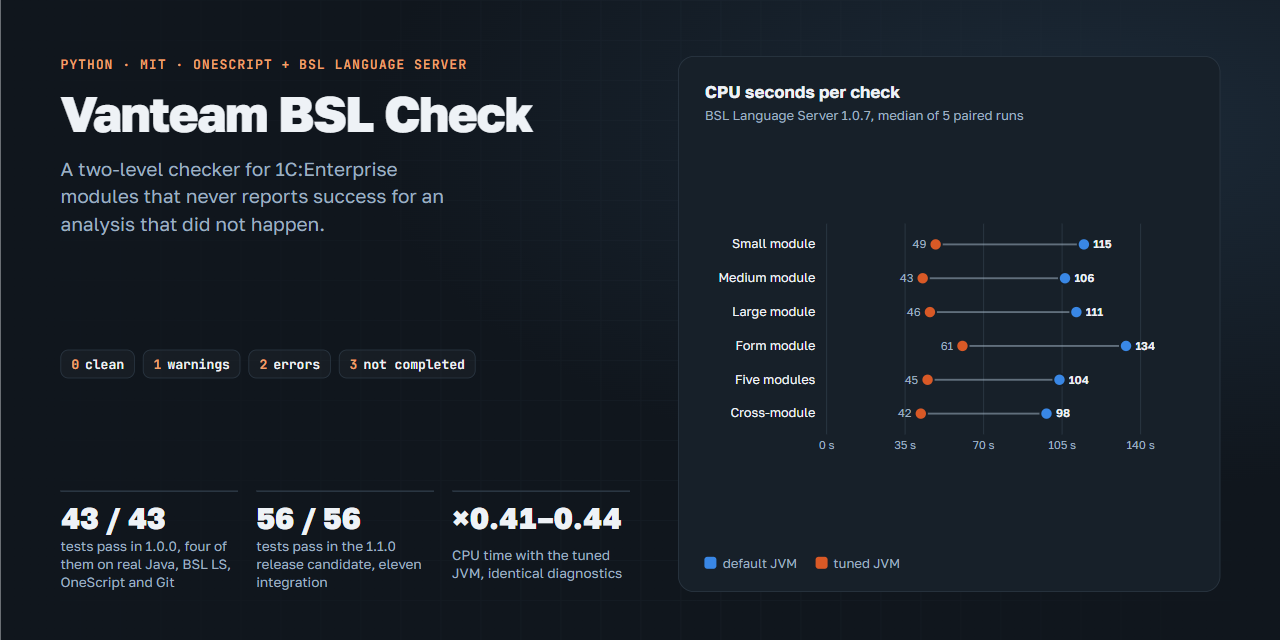
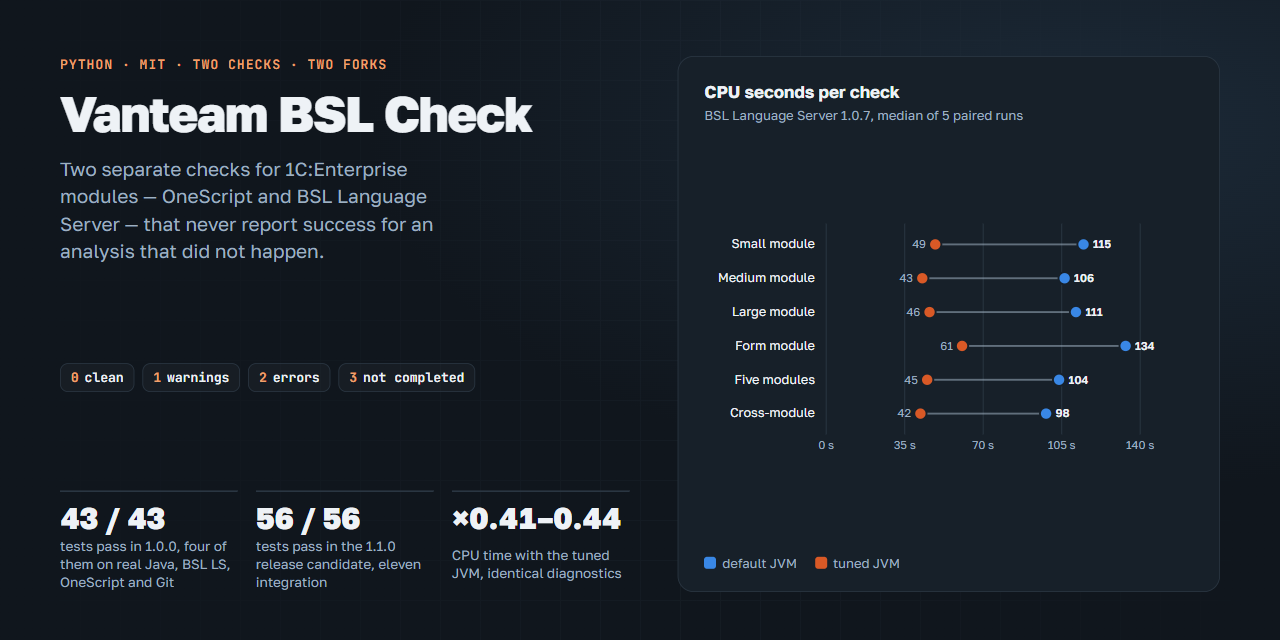
docs: two checks, two forks
README, changelog, dependencies and the project page describe two separate
commands - check_oscript.py for OneScript and check_bsl.py --deep for BSL
Language Server - and link both forks: ivanbokhan84/OneScript and
ivanbokhan84/bsl-language-server.

diff --git a/docs/index.html b/docs/index.html
@@ -4,9 +4,9 @@
 <meta charset="utf-8">
 <meta name="viewport" content="width=device-width, initial-scale=1, viewport-fit=cover">
 <title>Vanteam BSL Check</title>
-<meta name="description" content="A two-level checker for 1C:Enterprise (BSL) modules: OneScript syntax pass and BSL Language Server analysis, with exit codes you can trust.">
+<meta name="description" content="Two separate checks for 1C:Enterprise (BSL) modules: OneScript 2.2.0-vanteam.2 (-checkall) and BSL Language Server, each from its own fork, with exit codes you can trust.">
 <meta property="og:title" content="Vanteam BSL Check">
-<meta property="og:description" content="A two-level checker for 1C:Enterprise (BSL) modules: OneScript syntax pass and BSL Language Server analysis, with exit codes you can trust.">
+<meta property="og:description" content="Two separate checks for 1C:Enterprise (BSL) modules: OneScript 2.2.0-vanteam.2 (-checkall) and BSL Language Server, each from its own fork, with exit codes you can trust.">
 <meta property="og:image" content="https://ivanbokhan84.github.io/vanteam-bsl-check/cover.png">
 <meta property="og:url" content="https://ivanbokhan84.github.io/vanteam-bsl-check/">
 <meta name="twitter:card" content="summary_large_image">
@@ -141,9 +141,9 @@ footer { color: var(--faint); font-size: 13px; border-top: 1px solid var(--line)
 <header class="hero" id="cover">
   <div class="left">
     <div>
-      <div class="kicker">Python · MIT · OneScript + BSL Language Server</div>
+      <div class="kicker">Python · MIT · two checks · two forks</div>
       <h1>Vanteam BSL Check</h1>
-      <p class="tag">A two-level checker for 1C:Enterprise modules that never reports success for an analysis that did not happen.</p>
+      <p class="tag">Two separate checks for 1C:Enterprise modules — OneScript and BSL Language Server — that never report success for an analysis that did not happen.</p>
     </div>
     <div class="chips">
       <span class="chip"><b>0</b>clean</span><span class="chip"><b>1</b>warnings</span><span class="chip"><b>2</b>errors</span><span class="chip"><b>3</b>not completed</span>
@@ -161,6 +161,23 @@ footer { color: var(--faint); font-size: 13px; border-top: 1px solid var(--line)
   </div>
 </header>
 <main class="page">
+
+<section>
+  <div class="head"><div class="eyebrow">Two checks, two forks</div><h2 class="t">One command per engine</h2>
+  <p>Each engine has its own fork with the changes the checks rely on. This repository holds the wrappers and ties the two together; run both after every change to a module.</p></div>
+  <div class="grid2">
+    <div class="card"><h3>1. OneScript — <code>tools/check_oscript.py</code></h3>
+      <p class="note">Engine: OneScript 2.2.0-vanteam.2, <code>oscript -checkall</code>. One engine start for all files and every error of a module: syntax, wrong argument count, a procedure used as a function, a duplicate method with its line. Unknown 1C names are listed, not errors. Code under <code>#Если Сервер</code> is checked through a copy without directive lines.</p>
+      <p class="note">76 modules of a 1C configuration: 2.4 s in one run against 50–80 s with <code>oscript -check</code> per file; 116 of 116 real modules checked to the end.</p>
+      <div class="links"><a href="https://github.com/ivanbokhan84/OneScript">Fork ivanbokhan84/OneScript</a><a href="https://ivanbokhan84.github.io/OneScript/">Measurements</a></div></div>
+    <div class="card"><h3>2. BSL Language Server — <code>tools/check_bsl.py --deep</code></h3>
+      <p class="note">Engine: BSL Language Server 0.29.0 (1.0.7 in the 1.1.0 release candidate), <code>--analyze</code>: cognitive complexity, deprecated methods, unused variables, cross-module calls. Exit code 3 when the analysis did not happen.</p>
+      <p class="note">The Vanteam fork of BSL Language Server 1.0.7 (persistent platform-context cache, own diagnostics) is at an early stage with no releases yet, so the wrapper uses the upstream JAR.</p>
+      <div class="links"><a href="https://github.com/ivanbokhan84/bsl-language-server">Fork ivanbokhan84/bsl-language-server</a></div></div>
+  </div>
+  <pre class="block">python tools/check_oscript.py path/to/Module.bsl          # 1. OneScript
+python tools/check_bsl.py path/to/Module.bsl --deep       # 2. BSL Language Server</pre>
+</section>
 
 <section>
   <div class="head"><div class="eyebrow">How it decides</div><h2 class="t">Exit code 3 is a first-class result</h2>
@@ -235,17 +252,19 @@ footer { color: var(--faint); font-size: 13px; border-top: 1px solid var(--line)
   <pre class="block">git clone https://github.com/ivanbokhan84/vanteam-bsl-check.git
 cd vanteam-bsl-check
 python scripts/fetch_dependencies.py          # BSL LS JAR, SHA-256 verified
-python tools/check_bsl.py path/to/Module.bsl --all
+python tools/check_oscript.py path/to/Module.bsl          # needs OneScript 2.2.0-vanteam.2 from the fork
+python tools/check_bsl.py path/to/Module.bsl --deep
 python tools/bsl_new_findings.py path/to/Module.bsl</pre>
   <div class="links">
     <a href="https://github.com/ivanbokhan84/vanteam-bsl-check">Repository</a>
     <a href="https://github.com/ivanbokhan84/vanteam-bsl-check/releases">Releases</a>
-    <a href="https://github.com/ivanbokhan84/OneScript">OneScript preprocessor fix</a>
-    <a href="https://github.com/1c-syntax/bsl-language-server">BSL Language Server</a>
+    <a href="https://github.com/ivanbokhan84/OneScript">OneScript fork: -checkall</a>
+    <a href="https://github.com/ivanbokhan84/bsl-language-server">BSL Language Server fork</a>
+    <a href="https://github.com/1c-syntax/bsl-language-server">BSL Language Server upstream</a>
   </div>
 </section>
 
-<footer>MIT license. Maintained by Ivan Bokhan. BSL Language Server by the 1c-syntax community (LGPL-3.0), OneScript by EvilBeaver and the OneScript contributors (MPL-2.0); neither is bundled. Measurements: 28 September 2026.</footer>
+<footer>MIT license. Maintained by Ivan Bokhan. BSL Language Server by the 1c-syntax community (LGPL-3.0), OneScript by EvilBeaver and the OneScript contributors (MPL-2.0); neither is bundled. Measurements: 28–29 September 2026.</footer>
 
 </main>
 </body>

diff --git a/README.md b/README.md
@@ -1,10 +1,11 @@
 <h1 align="center">Vanteam BSL Check</h1>
 
-<h4 align="center">A two-level checker for 1C:Enterprise (BSL) modules: a fast OneScript syntax pass and a deep BSL Language Server analysis, with exit codes you can trust</h4>
+<h4 align="center">Checks for 1C:Enterprise (BSL) modules in two separate commands — OneScript and BSL Language Server — with exit codes you can trust</h4>
 
 <div align="center">
   <a href="LICENSE"><img src="https://img.shields.io/badge/license-MIT-green" alt="License: MIT" /></a>
   <a href="https://www.python.org/"><img src="https://img.shields.io/badge/python-3.10%2B-blue" alt="Python 3.10+" /></a>
+  <a href="https://github.com/ivanbokhan84/OneScript/tree/v2.2.0-vanteam.2"><img src="https://img.shields.io/badge/OneScript-2.2.0--vanteam.2-lightgrey" alt="OneScript 2.2.0-vanteam.2" /></a>
   <a href="https://github.com/1c-syntax/bsl-language-server/releases/tag/v0.29.0"><img src="https://img.shields.io/badge/BSL%20Language%20Server-0.29.0-lightgrey" alt="BSL Language Server 0.29.0" /></a>
   <a href="CHANGELOG.md"><img src="https://img.shields.io/badge/release-1.0.0-orange" alt="Release 1.0.0" /></a>
 </div>
@@ -14,18 +15,29 @@
 
 Project page with the test and measurement charts: **[ivanbokhan84.github.io/vanteam-bsl-check](https://ivanbokhan84.github.io/vanteam-bsl-check/)**.
 
-Vanteam BSL Check is a small Python wrapper around two existing tools:
+Vanteam BSL Check is a set of small Python wrappers around two engines. Each engine has its own fork with the changes the checks rely on; this repository ties them together:
 
-* **[OneScript](https://github.com/EvilBeaver/OneScript)** `oscript -check` — a quick syntax check, about a second per module;
-* **[BSL Language Server](https://github.com/1c-syntax/bsl-language-server)** `--analyze` — the full set of diagnostics: cognitive complexity, deprecated methods, unused variables, cross-module calls and more.
+| Level | Command | Engine | Fork |
+|---|---|---|---|
+| 1. OneScript | `tools/check_oscript.py` | OneScript 2.2.0-vanteam.2, `oscript -checkall` | **[ivanbokhan84/OneScript](https://github.com/ivanbokhan84/OneScript)** — preprocessor fix and `-checkall`, tag [`v2.2.0-vanteam.2`](https://github.com/ivanbokhan84/OneScript/tree/v2.2.0-vanteam.2) |
+| 2. BSL Language Server | `tools/check_bsl.py --deep` | BSL Language Server 0.29.0, `--analyze` | **[ivanbokhan84/bsl-language-server](https://github.com/ivanbokhan84/bsl-language-server)** — fork of 1.0.7, branch `vanteam-bsl-1.1`; early stage, no releases yet, so the wrapper uses the upstream JAR |
 
-Neither engine is modified. The wrapper decides *what* is analysed, runs the engines, and refuses to report success when the analysis did not actually happen: a missing report, a module absent from the report, an unknown severity or a crashed rule all end with a separate "check not completed" code instead of a green result.
+Run both after every change to a module:
+
+```shell
+python tools/check_oscript.py path/to/Module.bsl          # 1. OneScript: syntax and code generator checks
+python tools/check_bsl.py path/to/Module.bsl --deep       # 2. BSL Language Server: diagnostics
+```
+
+Both wrappers refuse to report success when the analysis did not actually happen: a missing engine, a missing report, a module absent from the report, an unknown severity or a crashed rule end with a separate "check not completed" code instead of a green result.
 
 Maintained by **Ivan Bokhan**.
 
 ## Features
 
-* **Honest results.** Exit code `3` means the check did not complete — the engine is missing, timed out, crashed, printed a known failure message, or produced no usable report. It is never folded into "OK".
+* **Every error of a module in one run (level 1).** `check_oscript.py` runs `oscript -checkall` once for all files. It reports every syntax and code generator error of a module — wrong argument count for the module's own methods, a procedure used as a function, a duplicate method (with its line), labels — instead of stopping at the first one. Unknown names of the 1C global context (`Справочники`, `Документы`, other common modules) are listed, not treated as errors.
+* **Code under `#Если Сервер` is checked too.** OneScript defines no 1C preprocessor symbols, so any OneScript check skips the body of `#Если Сервер Тогда`. `check_oscript.py` also checks a copy of every module that has `#Если`, with the directive lines blanked out (line numbers unchanged); errors found only there are marked `[ветка #Если]`.
+* **Honest results.** Exit code `3` of `check_bsl.py` means the check did not complete — the engine is missing, timed out, crashed, printed a known failure message, or produced no usable report. It is never folded into "OK". `check_oscript.py` uses `2` for a file that could not be checked and `3` for a missing engine.
 * **Explicit analysis scope.** By default BSL LS sees the `.bsl`/`.os` files of the module's own directory; nested folders (for example archives next to the module) are left out. `--source-dir` sets a recursive context and the metadata root for a full Designer/EDT dump; `--standalone` checks the file alone. The scope is printed with every run.
 * **Only new findings.** `bsl_new_findings.py` compares a module with its version in Git (default `HEAD`) and prints only the ERROR/WARN findings that appeared. Large legacy modules can carry hundreds of old warnings; the rule "no errors and no *new* warnings" stays usable.
 * **One analysis at a time.** An OS-level file lock serialises BSL LS runs per checkout; a second run waits up to 300 s. The lock is released by the OS if its owner crashes.
@@ -36,9 +48,9 @@ Maintained by **Ivan Bokhan**.
 | Component | Version | Notes |
 |---|---|---|
 | Python | 3.10+ | standard library only |
+| OneScript | 2.2.0-vanteam.2 | for `check_oscript.py`; built from the [fork](https://github.com/ivanbokhan84/OneScript), see [OneScript](#onescript) |
 | Java | 21+ | a portable Temurin 21 can be fetched into `tools/jdk21` |
 | BSL Language Server | 0.29.0 | `bsl-language-server-0.29.0-exec.jar`, fetched and SHA-256-verified |
-| OneScript | 1.9.4 tested | installed separately, see [OneScript version](#onescript-version) |
 | Git | any recent | for `bsl_new_findings.py` |
 
 Developed and tested on Windows 11. The code has POSIX branches (file lock, `java` on `PATH`), but other platforms have not been tested.
@@ -53,16 +65,34 @@ python scripts/fetch_dependencies.py --jdk    # optional: portable JDK 21 for Wi
 python scripts/fetch_dependencies.py --check  # verify what is present
 ```
 
-Binaries are downloaded from the official GitHub releases of BSL Language Server and Eclipse Temurin and checked against the SHA-256 values pinned in [`DEPENDENCIES.json`](DEPENDENCIES.json). They are not stored in this repository.
+BSL LS and JDK binaries are downloaded from their official GitHub releases and checked against the SHA-256 values pinned in [`DEPENDENCIES.json`](DEPENDENCIES.json). They are not stored in this repository. OneScript is built separately, see below.
+
+## OneScript
+
+`check_oscript.py` needs the OneScript build with `-checkall`. Binaries are not published; build it from the fork (.NET SDK 8+):
+
+```shell
+git clone -b v2.2.0-vanteam.2 https://github.com/ivanbokhan84/OneScript.git
+cd OneScript
+dotnet publish src/oscript/oscript.csproj -r win-x64 --self-contained -c Release -p:VersionPrefix=2.2.0 -p:VersionSuffix=vanteam.2 -p:PublishReadyToRun=true -o %LOCALAPPDATA%\Programs\OneScript-2.2.0-vanteam.2\bin
+```
+
+The wrapper looks for `VANTEAM_OSCRIPT`, then `%LOCALAPPDATA%\Programs\OneScript-2.2.0-vanteam.2\bin\oscript.exe`. Check: `oscript -version` prints `2.2.0-vanteam.2`.
+
+Why the fork: on real 1C modules the stock `oscript -check` stops at the first unknown 1C name, so the code generator checks after it never run, and OneScript 1.9.4 sees nothing at all after it. The official 2.2.0 also takes a `#` inside a string of an inactive `#Если` branch for a directive. Measured on 76 modules of a 1C configuration: one `-checkall` run takes 2.4 s against 50–80 s for `-check` with a process per file; all 116 real modules are checked to the end against 10 with `-check`. Details and data are on the [fork's page](https://ivanbokhan84.github.io/OneScript/).
+
+What OneScript does not check: the 1C compatibility mode. `СтрНайти`, `ТекущаяДата` and other 8.3 functions are accepted — BSL LS reports them (`DeprecatedFind` and others). Names that exist neither in OneScript nor in 1C (`НижнийРегистр`, `Симв`) appear in the "Проверить вручную" list: look for a typo there.
 
 ## Usage
 
 ```shell
-python tools/check_bsl.py path/to/Module.bsl                  # OneScript syntax check
-python tools/check_bsl.py path/to/Module.bsl --deep           # BSL Language Server only
-python tools/check_bsl.py path/to/Module.bsl --all            # both levels
-python tools/check_bsl.py path/to/Module.bsl --all --quiet    # print findings only
+python tools/check_oscript.py path/to/Module.bsl              # level 1: one module
+python tools/check_oscript.py path/to/CommonModules           # level 1: a folder in one run
+python tools/check_oscript.py                                 # level 1: src, cf_source, release/cf_source
+python tools/check_oscript.py path --quiet --symbols          # no OK lines; unknown names per file
 
+python tools/check_bsl.py path/to/Module.bsl --deep           # level 2: BSL Language Server
+python tools/check_bsl.py path/to/Module.bsl --deep --quiet   # print findings only
 python tools/check_bsl.py path/to/Module.bsl --deep --source-dir path/to/dump   # full configuration context
 python tools/check_bsl.py path/to/Module.bsl --deep --standalone                # the file alone
 
@@ -72,7 +102,18 @@ python tools/bsl_new_findings.py path/to/Module.bsl main~3     # ... against any
 
 A single module checked without `--source-dir` does not see the rest of the configuration: cross-module and metadata diagnostics need the full dump.
 
+`check_bsl.py` without `--deep` still runs the legacy level — `oscript -check` of the installed OneScript, one file, up to the first error — and `--all` runs it together with BSL LS. They are kept for compatibility with release 1.0.0; the OneScript level is `check_oscript.py` now.
+
 ### Exit codes
+
+`check_oscript.py`
+
+| Code | Meaning |
+|---|---|
+| `0` | no errors; unknown 1C names are not errors |
+| `1` | errors: lines `ОШИБКА <file> стр N,M <text>` |
+| `2` | a file could not be checked |
+| `3` | OneScript 2.2.0-vanteam.2 not found |
 
 `check_bsl.py`
 
@@ -80,7 +121,7 @@ A single module checked without `--source-dir` does not see the rest of the conf
 |---|---|
 | `0` | no errors and no warnings |
 | `1` | warnings only |
-| `2` | errors: a BSL LS finding of level Error, or a OneScript syntax error |
+| `2` | errors: a BSL LS finding of level Error (or a syntax error of the legacy OneScript level) |
 | `3` | the check did not complete; this is neither a success nor a list of findings |
 
 INFO and HINT findings never raise the code.
@@ -97,28 +138,29 @@ INFO and HINT findings never raise the code.
 
 * **Diagnostics** — [`tools/bsl_ls/.bsl-language-server.json`](tools/bsl_ls/.bsl-language-server.json). With `--source-dir` the wrapper writes a temporary copy with an absolute `configurationRoot`; the original file is never changed.
 * **`BSL_LS_JAR`** — path to a specific JAR. A path that does not exist ends with code `3`; it is not silently replaced by the bundled one.
-* **OneScript** — looked up at `C:\Program Files\OneScript\bin\oscript.exe`, then on `PATH`.
+* **`VANTEAM_OSCRIPT`** — path to `oscript.exe` of 2.2.0-vanteam.2 for `check_oscript.py`.
+* **Legacy OneScript level of `check_bsl.py`** — looked up at `C:\Program Files\OneScript\bin\oscript.exe`, then on `PATH`.
 * **Java** — `tools/jdk21`, then `PATH`, then standard Windows install locations.
-
-## OneScript version
-
-`oscript -check` stops at the first error. On real 1C modules this is usually `Неизвестный символ` (unknown symbol): the 1C global context — `Документы`, `Справочники`, other common modules — does not exist in OneScript. `check_bsl.py` reports it as an error; `bsl_new_findings.py` treats an unconfirmed unknown symbol as an incomplete check, because it cannot tell a missing 1C global from a typo in a local variable.
-
-OneScript **2.2.0** has a preprocessor bug: inside an inactive `#Если` branch, a `#` in a string or a comment is taken for a directive. `"#000000"` in an HTML colour becomes a false syntax error, and `// #КонецЕсли` can hide a missing `#КонецЕсли`. OneScript 1.9.4 is not affected. A fixed 2.2.0 build is available from the fork [ivanbokhan84/OneScript](https://github.com/ivanbokhan84/OneScript).
 
 ## Tests
 
 ```shell
+python -m unittest tools/tests/test_check_oscript.py -v
 python -m unittest tools/tests/test_check_bsl.py -v
 ```
 
-43 tests. Four integration tests run real Java, BSL LS, OneScript and Git on the fixtures in `tools/tests/fixtures`: syntax errors, and a minimal Designer configuration with two modules for cross-module diagnostics. They are skipped when a tool is missing or `BSL_TESTS_SKIP_INTEGRATION` is set. A skipped integration test is not a pass.
+`test_check_oscript.py` — 8 tests: 19 modules with known error lines in `tools/tests/fixtures/oscript_quality` (syntax, code generator, two errors in one module, valid modules), code under `#Если Сервер`, same-named methods in two branches, an unclosed `#Если`, a duplicate method line, a typo in the manual-check list, a missing engine. Seven of them need OneScript 2.2.0-vanteam.2.
+
+`test_check_bsl.py` — 43 tests. Four integration tests run real Java, BSL LS, OneScript and Git on the fixtures in `tools/tests/fixtures`: syntax errors, and a minimal Designer configuration with two modules for cross-module diagnostics.
+
+Tests that need an engine are skipped when it is missing or `BSL_TESTS_SKIP_INTEGRATION` is set. A skipped integration test is not a pass.
 
 ## Repository layout
 
 ```
 tools/
-  check_bsl.py                  two-level checker
+  check_oscript.py              level 1: OneScript 2.2.0-vanteam.2 -checkall
+  check_bsl.py                  level 2: BSL Language Server (--deep)
   bsl_new_findings.py           new findings against a Git revision
   bsl_ls/.bsl-language-server.json
   tests/                        unit and integration tests, fixtures
@@ -128,12 +170,11 @@ DEPENDENCIES.json               pinned versions, URLs and SHA-256
 
 ## Versions
 
-| Version | BSL LS | Status |
-|---|---|---|
-| [1.0.0](https://github.com/ivanbokhan84/vanteam-bsl-check/tree/v1.0.0) | 0.29.0 | stable, independently reviewed, `main` |
-| [1.1.0-rc.1](https://github.com/ivanbokhan84/vanteam-bsl-check/tree/release/1.1.0) | 1.0.7 | release candidate, independent review pending |
-
-See [CHANGELOG.md](CHANGELOG.md).
+| Version | OneScript level | BSL LS | Status |
+|---|---|---|---|
+| `main` | `check_oscript.py`, OneScript 2.2.0-vanteam.2 | 0.29.0 | unreleased, see [CHANGELOG.md](CHANGELOG.md) |
+| [1.0.0](https://github.com/ivanbokhan84/vanteam-bsl-check/tree/v1.0.0) | `check_bsl.py`, `oscript -check` | 0.29.0 | stable, independently reviewed |
+| [1.1.0-rc.1](https://github.com/ivanbokhan84/vanteam-bsl-check/tree/release/1.1.0) | `check_bsl.py`, `oscript -check` | 1.0.7 | release candidate, independent review pending |
 
 ## Third-party software
 
@@ -142,7 +183,7 @@ Nothing third-party is stored in this repository. The fetch script downloads:
 * BSL Language Server — LGPL-3.0-or-later, © the 1c-syntax contributors, used unmodified as a separate program;
 * Eclipse Temurin JDK — GPL-2.0 with the Classpath Exception, optional.
 
-OneScript (MPL-2.0) is installed separately.
+OneScript (MPL-2.0) is built separately from the fork [ivanbokhan84/OneScript](https://github.com/ivanbokhan84/OneScript), which keeps the upstream license and copyright notices.
 
 ## License
 
@@ -150,5 +191,5 @@ MIT — see [LICENSE](LICENSE).
 
 ## Credits
 
-* [BSL Language Server](https://github.com/1c-syntax/bsl-language-server) by the 1c-syntax community.
-* [OneScript](https://github.com/EvilBeaver/OneScript) by EvilBeaver and the OneScript contributors.
+* [BSL Language Server](https://github.com/1c-syntax/bsl-language-server) by the 1c-syntax community; Vanteam fork: [ivanbokhan84/bsl-language-server](https://github.com/ivanbokhan84/bsl-language-server).
+* [OneScript](https://github.com/EvilBeaver/OneScript) by EvilBeaver and the OneScript contributors; Vanteam fork: [ivanbokhan84/OneScript](https://github.com/ivanbokhan84/OneScript).

diff --git a/CHANGELOG.md b/CHANGELOG.md
@@ -5,6 +5,19 @@ The format is based on [Keep a Changelog](https://keepachangelog.com/en/1.1.0/),
 and the project follows [Semantic Versioning](https://semver.org/). The wrapper
 version is independent of the BSL Language Server version.
 
+## [Unreleased]
+
+The OneScript level is a separate command now; each engine has its own fork.
+
+### Added
+- `check_oscript.py`: level 1 on OneScript 2.2.0-vanteam.2 (`oscript -checkall`, fork [ivanbokhan84/OneScript](https://github.com/ivanbokhan84/OneScript), tag `v2.2.0-vanteam.2`). One engine start for all files, every error of a module, unknown 1C names listed instead of stopping the check; a copy without directive lines for modules with `#Если`, so code under `#Если Сервер` is checked; the line of a duplicate method; a list of unknown names outside the 1C context for manual review. Exit codes `0`/`1`/`2`/`3`.
+- `test_check_oscript.py`: 8 tests and 19 fixture modules with known error lines.
+- README and project page: links to both forks — [ivanbokhan84/OneScript](https://github.com/ivanbokhan84/OneScript) and [ivanbokhan84/bsl-language-server](https://github.com/ivanbokhan84/bsl-language-server).
+
+### Changed
+- Recommended usage: `check_oscript.py` for level 1 and `check_bsl.py --deep` for level 2. `check_bsl.py` without `--deep` and with `--all` still runs the legacy `oscript -check` level, unchanged.
+- `DEPENDENCIES.json`: OneScript 2.2.0-vanteam.2 from the fork.
+
 ## [1.0.0] - 2026-09-28
 
 First public release. Engine: BSL Language Server 0.29.0, unmodified.
